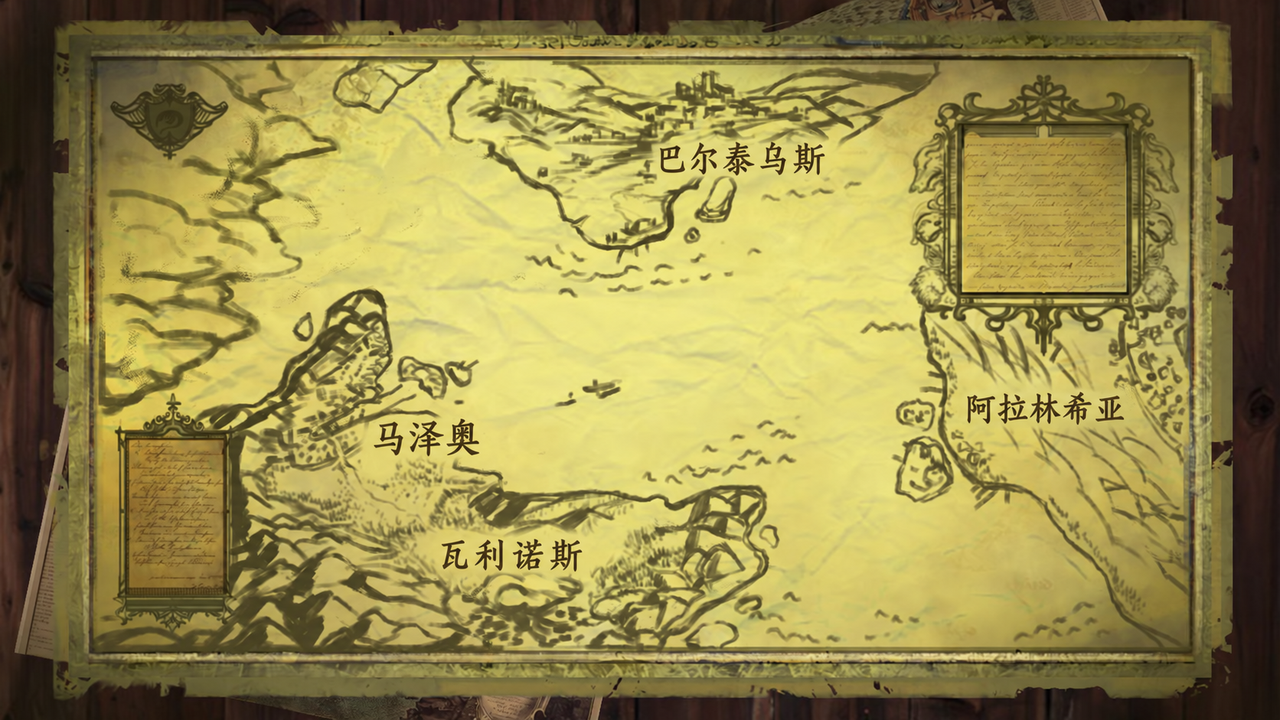
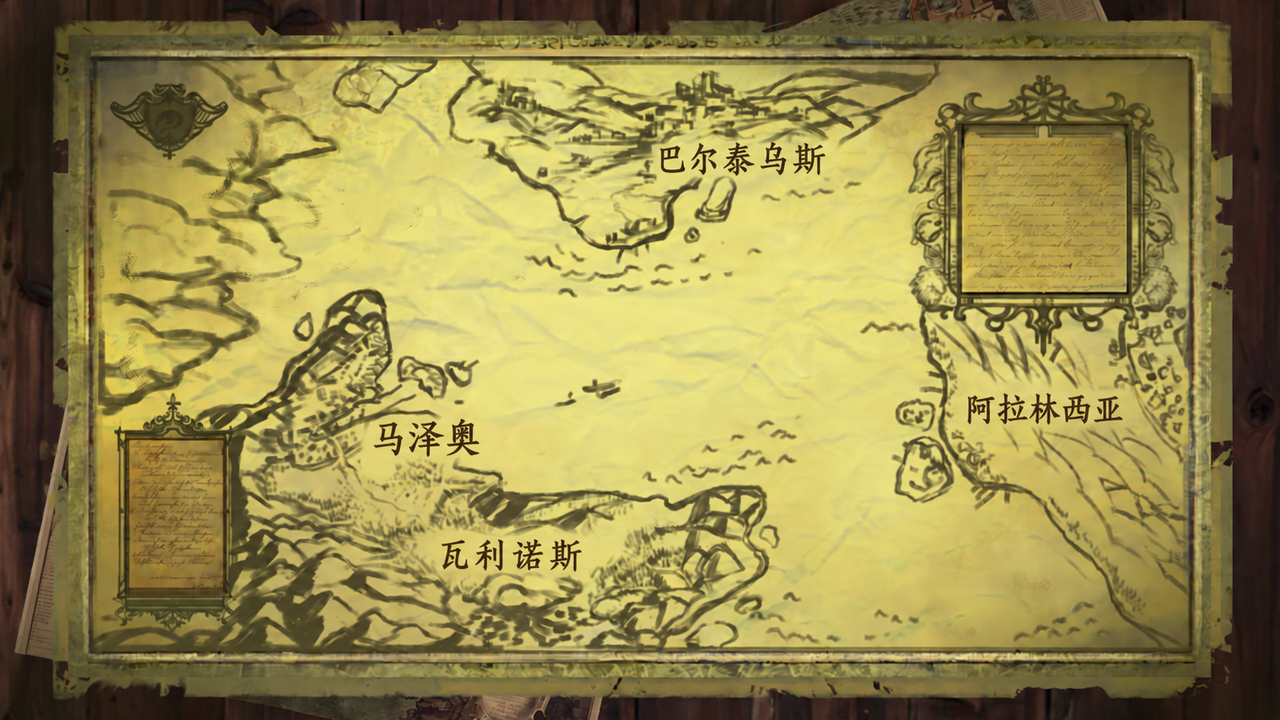
1.2.2: 更新图片资源 (WorldMap / b0009)
- WorldMap.png: 世界地图地名中文版 (1280x720, 1.36 MB)

- b0009.png: 迈勒斯书页, 采用统一后的「放逐之刃」术语 (1280x720, 1.54 MB)

- payload 与 manifest 哈希已同步; verify 70/70; 新增 Release 发布

diff --git a/review/findings.md b/review/findings.md
@@ -1,39 +1,27 @@
 # 翻译校对预筛报告
 
-生成时间: 2026-09-22 21:07
+生成时间: 2026-09-22 21:43
 
 扫描条目: 11623; 候选问题: 85
 
 | 等级 | 规则 | 数量 | 说明 |
 | --- | --- | --- | --- |
-| term | term-blade | 2 | 术语不一致 |
-| term | term-blades | 1 | 术语不一致 |
+| term | term-blade | 1 | 术语不一致 |
 | term | term-sword | 1 | 术语不一致 |
 | low | ascii-residue | 36 | 残留英文单词 |
 | low | halfwidth-punct | 2 | 半角标点 |
-| low | length-ratio | 12 | 长度异常 |
+| low | length-ratio | 14 | 长度异常 |
 | low | repeated-char | 13 | 重复用字 |
 | info | engine-string | 18 | 引擎内置串 (正常) |
 
 ---
 
-## [term] term-blade — 2 条
+## [term] term-blade — 1 条
 
-- `dialogue_0001.tsv#100` 
-  - 原文: To break the deadlock, Ulric kicks his opponent in the gut.{w}\nThey stumble back, and ready their blade with a flourish
-  - 现译: 为了打破僵局，乌尔里克一脚踹在对手的腹部。{w}\n那人踉跄着后退，炫技般重新举起兵器。{w}\n没过多久，他们又朝他冲了过来。
-  - 说明: 术语 blade 应为「剑」
 - `dialogue_0007.tsv#2702` char_sovy
   - 原文: The most important thing on my mind, is \"why\"...?\nWhy did you welcome me with open arms after what I did?\nI feel lik
   - 现译: 我心中最重要的问题，就是“为什么”……？\n在我做了那些事之后，你为什么还张开双臂欢迎我？\n我觉得任何有点常识的人都会把我处死。
   - 说明: 术语 blade 应为「剑」
-
-## [term] term-blades — 1 条
-
-- `dialogue_0026.tsv#10202` char_mylus
-  - 原文: We might be a bit behind, but we'll meet in Mazeo.\nThere's lots to plan, and little time to plan it.\nWe'll need new ho
-  - 现译: 我们或许会落后一些，但会在马泽奥会合。\n要筹划的事很多，时间却很少。\n我们需要新家园，还要为志愿者备好兵器。
-  - 说明: 术语 blades 应为「剑」
 
 ## [term] term-sword — 1 条
 
@@ -68,7 +56,126 @@
   - 原文: Page Down
   - 现译: Page Down
   - 说明: 残留英文单词: Down,Page
-- ... 其余 30 条见 candidates.tsv
+- `strings_0003.tsv#994` 
+  - 原文: Winds of Change
+  - 现译: Winds of Change
+  - 说明: 残留英文单词: Change,Winds
+- `strings_0003.tsv#995` 
+  - 原文: Story and game by Klace\nArt by Feyvaras and Chase Emilio\nMusic by Fox Amoore and Joel Steudler\nRen'Py programming by 
+  - 现译: 故事与游戏：Klace\n美术：Feyvaras 和 Chase Emilio\n音乐：Fox Amoore 和 Joel Steudler\nRen'Py 编程：cyanic
+  - 说明: 残留英文单词: Amoore,Chase,Emilio,Feyvaras
+- `strings_0003.tsv#1051` 
+  - 原文: (statement)
+  - 现译: (statement)
+  - 说明: 残留英文单词: statement
+- `strings_0003.tsv#1052` 
+  - 原文: (tag)
+  - 现译: (tag)
+  - 说明: 残留英文单词: tag
+- `strings_0003.tsv#1053` 
+  - 原文: (attributes)
+  - 现译: (attributes)
+  - 说明: 残留英文单词: attributes
+- `strings_0003.tsv#1054` 
+  - 原文: (transform)
+  - 现译: (transform)
+  - 说明: 残留英文单词: transform
+- `strings_0003.tsv#1055` 
+  - 原文: (transition)
+  - 现译: (transition)
+  - 说明: 残留英文单词: transition
+- `strings_0003.tsv#1056` 
+  - 原文: (channel)
+  - 现译: (channel)
+  - 说明: 残留英文单词: channel
+- `strings_0003.tsv#1057` 
+  - 原文: (filename)
+  - 现译: (filename)
+  - 说明: 残留英文单词: filename
+- `strings_0003.tsv#1095` 
+  - 原文: This program contains free software under a number of licenses, including the MIT License and GNU Lesser General Public 
+  - 现译: 本程序包含多种许可协议下的自由软件，包括 MIT 许可证和 GNU 宽通用公共许可证。完整的软件列表（含完整源代码链接）可在{a=https://www.renpy.org/l/license}此处{/a}找到。
+  - 说明: 残留英文单词: GNU,MIT
+- `strings_0003.tsv#1132` 
+  - 原文: Clipboard voicing enabled. Press 'shift+C' to disable.
+  - 现译: 剪贴板朗读已启用。按 'shift+C' 禁用。
+  - 说明: 残留英文单词: shift
+- `strings_0003.tsv#1133` 
+  - 原文: Self-voicing would say \"[renpy.display.tts.last]\". Press 'alt+shift+V' to disable.
+  - 现译: 自朗读会读出“[renpy.display.tts.last]”。按 'alt+shift+V' 禁用。
+  - 说明: 残留英文单词: alt,shift
+- `strings_0003.tsv#1137` 
+  - 原文: Reload Game (Shift+R)
+  - 现译: 重新加载游戏 (Shift+R)
+  - 说明: 残留英文单词: Shift
+- `strings_0003.tsv#1138` 
+  - 原文: Console (Shift+O)
+  - 现译: 控制台 (Shift+O)
+  - 说明: 残留英文单词: Shift
+- `strings_0003.tsv#1151` 
+  - 原文: Right-click or escape to quit.
+  - 现译: 右键点击或按 Esc 退出。
+  - 说明: 残留英文单词: Esc
+- `strings_0003.tsv#1165` 
+  - 原文: displayable:
+  - 现译: displayable：
+  - 说明: 残留英文单词: displayable
+- `strings_0003.tsv#1168` 
+  - 原文: <repr() failed>
+  - 现译: <repr() failed>
+  - 说明: 残留英文单词: failed,repr
+- `strings_0003.tsv#1174` 
+  - 原文: The Ren'Py Updater is not supported on mobile devices.
+  - 现译: Ren'Py 更新程序不支持移动设备。
+  - 说明: 残留英文单词: Ren
+- `strings_0004.tsv#1203` 
+  - 原文: Force Angle/DirectX Renderer
+  - 现译: 强制使用 Angle/DirectX 渲染器
+  - 说明: 残留英文单词: Angle,DirectX
+- `strings_0004.tsv#1204` 
+  - 原文: Force OpenGL Renderer
+  - 现译: 强制使用 OpenGL 渲染器
+  - 说明: 残留英文单词: OpenGL
+- `strings_0004.tsv#1206` 
+  - 原文: NPOT
+  - 现译: NPOT
+  - 说明: 残留英文单词: NPOT
+- `strings_0004.tsv#1220` 
+  - 原文: Its graphics drivers may be out of date or not operating correctly. This can lead to slow or incorrect graphics display.
+  - 现译: 其显卡驱动可能已过时或无法正常运行。这可能导致图形显示缓慢或不正确。更新 DirectX 或许能解决此问题。
+  - 说明: 残留英文单词: DirectX
+- `strings_0004.tsv#1222` 
+  - 原文: Update DirectX
+  - 现译: 更新 DirectX
+  - 说明: 残留英文单词: DirectX
+- `strings_0004.tsv#1225` 
+  - 原文: Updating DirectX.
+  - 现译: 正在更新 DirectX。
+  - 说明: 残留英文单词: DirectX
+- `strings_0004.tsv#1226` 
+  - 原文: DirectX web setup has been started. It may start minimized in the taskbar. Please follow the prompts to install DirectX.
+  - 现译: DirectX 网页安装程序已启动。它可能会在任务栏中最小化启动。请按提示安装 DirectX。
+  - 说明: 残留英文单词: DirectX
+- `strings_0004.tsv#1227` 
+  - 原文: {b}Note:{/b} Microsoft's DirectX web setup program will, by default, install the Bing toolbar. If you do not want this t
+  - 现译: {b}注意：{/b}微软的 DirectX 网页安装程序默认会安装必应工具栏。如果您不想要此工具栏，请取消勾选相应的复选框。
+  - 说明: 残留英文单词: DirectX
+- `strings_0004.tsv#1237` 
+  - 原文: Opens the traceback.txt file in a text editor.
+  - 现译: 在文本编辑器中打开 traceback.txt 文件。
+  - 说明: 残留英文单词: traceback,txt
+- `strings_0004.tsv#1239` 
+  - 原文: Copies the traceback.txt file to the clipboard.
+  - 现译: 将 traceback.txt 文件复制到剪贴板。
+  - 说明: 残留英文单词: traceback,txt
+- `strings_0004.tsv#1252` 
+  - 原文: Opens the errors.txt file in a text editor.
+  - 现译: 在文本编辑器中打开 errors.txt 文件。
+  - 说明: 残留英文单词: errors,txt
+- `strings_0004.tsv#1253` 
+  - 原文: Copies the errors.txt file to the clipboard.
+  - 现译: 将 errors.txt 文件复制到剪贴板。
+  - 说明: 残留英文单词: errors,txt
 
 ## [low] halfwidth-punct — 2 条
 
@@ -81,8 +188,16 @@
   - 现译: %m月%d日 %H:%M
   - 说明: 中文里出现半角 , ; : ! ?
 
-## [low] length-ratio — 12 条
+## [low] length-ratio — 14 条
 
+- `dialogue_0003.tsv#1196` char_fortaime
+  - 原文: Wow, there's so many people in there...!\nAnd it sounds super noisy. Is it always like that?
+  - 现译: 哇，里面好多人……！
+  - 说明: 长度比 0.11 偏离常规
+- `dialogue_0021.tsv#8162` char_howl
+  - 原文: We cannot become the enemy we seek to dethrone.\nYour way of thinking requires some reevaluation, Damek.\nYou may say \"
+  - 现译: 我们不能变成我们想要推翻的敌人。
+  - 说明: 长度比 0.10 偏离常规
 - `dialogue_0026.tsv#10147` char_valessa
   - 原文: {w=1.0}.{w=1.0}.{w=1.0}.{w}
   - 现译: {w=1.0}.{w=1.0}.{w=1.0}.{w}
@@ -107,7 +222,30 @@
   - 原文: {image=icons/651.png} No
   - 现译: {image=icons/651.png} 否
   - 说明: 长度比 0.96 偏离常规
-- ... 其余 6 条见 candidates.tsv
+- `strings_0001.tsv#155` 
+  - 原文: {image=icons/651.png} [[Yes]
+  - 现译: {image=icons/651.png} [[是]
+  - 说明: 长度比 0.93 偏离常规
+- `strings_0001.tsv#156` 
+  - 原文: {image=icons/651.png} [[No]
+  - 现译: {image=icons/651.png} [[否]
+  - 说明: 长度比 0.96 偏离常规
+- `strings_0001.tsv#164` 
+  - 原文: {image=icons/651.png} City
+  - 现译: {image=icons/651.png} 城区
+  - 说明: 长度比 0.92 偏离常规
+- `strings_0002.tsv#561` 
+  - 原文: {image=icons/651.png} [[Back]
+  - 现译: {image=icons/651.png} [[返回]
+  - 说明: 长度比 0.93 偏离常规
+- `strings_0003.tsv#926` 
+  - 原文: Made with {a=https://www.renpy.org/}Ren'Py{/a} [renpy.version_only].\n\n[renpy.license!t]
+  - 现译: 使用 {a=https://www.renpy.org/}Ren'Py{/a} [renpy.version_only] 制作。\n\n[renpy.license!t]
+  - 说明: 长度比 0.96 偏离常规
+- `strings_0003.tsv#1196` 
+  - 原文: Image [index] of [count] locked.
+  - 现译: 第 [index] 张图像（共 [count] 张）已锁定。
+  - 说明: 长度比 0.94 偏离常规
 
 ## [low] repeated-char — 13 条
 
@@ -135,7 +273,34 @@
   - 原文: I tell him that he can. He just needs to be brave enough.{w}\nThere may not be any music here, but I hold out my hands.{
   - 现译: 我告诉他他可以。他只需要鼓起勇气。{w}\n这里也许没有音乐，但我伸出了双手。{w}\n我问他是否愿意试一试。就在一切结束之前，试一次。
   - 说明: 可能重复用字: 他他
-- ... 其余 7 条见 candidates.tsv
+- `dialogue_0016.tsv#6359` char_sovy
+  - 原文: Better than The Triumvirate. Better than The Monarchy.\nYou're the only person that's ever treated me like I mattered.\n
+  - 现译: 比三人执政团更好。比王权更好。\n你是唯一一个把我当回事的人。\n我不是你的奴隶。我不只是个“达成目的的手段”。
+  - 说明: 可能重复用字: 的的
+- `dialogue_0017.tsv#6472` char_pro
+  - 原文: Yeah, but it's not just Alarinthia, Valessa.\nYou could say that about this entire war in general.\nSometimes it's bette
+  - 现译: 是啊，但不止是阿拉林西亚，瓦莱莎。\n整场战争都可以这么说。\n有时候，把别人看作“达到目的的手段”会更好。
+  - 说明: 可能重复用字: 的的
+- `dialogue_0019.tsv#7584` char_howl
+  - 原文: Maybe. Means to an end, we suppose.\nThe enemy likely thinks the same way.
+  - 现译: 也许吧。我们猜，是为了达到目的的手段。\n敌人多半也是这么想的。
+  - 说明: 可能重复用字: 的的
+- `dialogue_0023.tsv#8867` char_shane
+  - 原文: Neither of us will know true freedom.\nWe're nothing but a means to an end.\nThey'll kill you the moment you disobey.
+  - 现译: 我们俩都尝不到真正的自由。\n我们不过是达成目的的工具。\n你一违抗命令，他们就会杀了你。
+  - 说明: 可能重复用字: 的的
+- `dialogue_0023.tsv#9190` char_ulric
+  - 原文: I'll assume your studying abilities are limited in Valinorth.\nBut the occupation was just a cover for The Triumvirate's
+  - 现译: 我猜你们在瓦利诺斯的学习条件有限。\n但那次占领只是三人执政团真正目的的掩护。\n他们在找这尊灵像——好摧毁它。
+  - 说明: 可能重复用字: 的的
+- `dialogue_0024.tsv#9571` 
+  - 原文: They wave their hand forward, and I can no longer move.{w}\nLetting out a chuckle, they start walking toward me.
+  - 现译: 他们向前一挥手，我就再也动不了了。{w}\n他们轻笑一声，朝我走来。
+  - 说明: 可能重复用字: 了了
+- `dialogue_0025.tsv#9816` char_valessa
+  - 原文: Yeah, yeah, I guess you're right.\nBut we're in positions that are {i}very{/i} sacred.\nIf we don't take this seriously,
+  - 现译: 是是是，你说得对。\n可我们身处的位置{i}极其{/i}神圣。\n要是我们不认真对待，最终会搞砸。
+  - 说明: 可能重复用字: 是是
 
 ## [info] engine-string — 18 条
 
@@ -163,5 +328,52 @@
   - 原文: Page Up
   - 现译: Page Up
   - 说明: 引擎内置字符串, 通常保留原文
-- ... 其余 12 条见 candidates.tsv
+- `strings_0003.tsv#974` 
+  - 原文: Page Down
+  - 现译: Page Down
+  - 说明: 引擎内置字符串, 通常保留原文
+- `strings_0003.tsv#994` 
+  - 原文: Winds of Change
+  - 现译: Winds of Change
+  - 说明: 引擎内置字符串, 通常保留原文
+- `strings_0003.tsv#1051` 
+  - 原文: (statement)
+  - 现译: (statement)
+  - 说明: 引擎内置字符串, 通常保留原文
+- `strings_0003.tsv#1052` 
+  - 原文: (tag)
+  - 现译: (tag)
+  - 说明: 引擎内置字符串, 通常保留原文
+- `strings_0003.tsv#1053` 
+  - 原文: (attributes)
+  - 现译: (attributes)
+  - 说明: 引擎内置字符串, 通常保留原文
+- `strings_0003.tsv#1054` 
+  - 原文: (transform)
+  - 现译: (transform)
+  - 说明: 引擎内置字符串, 通常保留原文
+- `strings_0003.tsv#1055` 
+  - 原文: (transition)
+  - 现译: (transition)
+  - 说明: 引擎内置字符串, 通常保留原文
+- `strings_0003.tsv#1056` 
+  - 原文: (channel)
+  - 现译: (channel)
+  - 说明: 引擎内置字符串, 通常保留原文
+- `strings_0003.tsv#1057` 
+  - 原文: (filename)
+  - 现译: (filename)
+  - 说明: 引擎内置字符串, 通常保留原文
+- `strings_0003.tsv#1146` 
+  - 原文: [name] [attributes]
+  - 现译: [name] [attributes]
+  - 说明: 引擎内置字符串, 通常保留原文
+- `strings_0003.tsv#1168` 
+  - 原文: <repr() failed>
+  - 现译: <repr() failed>
+  - 说明: 引擎内置字符串, 通常保留原文
+- `strings_0004.tsv#1206` 
+  - 原文: NPOT
+  - 现译: NPOT
+  - 说明: 引擎内置字符串, 通常保留原文
 
